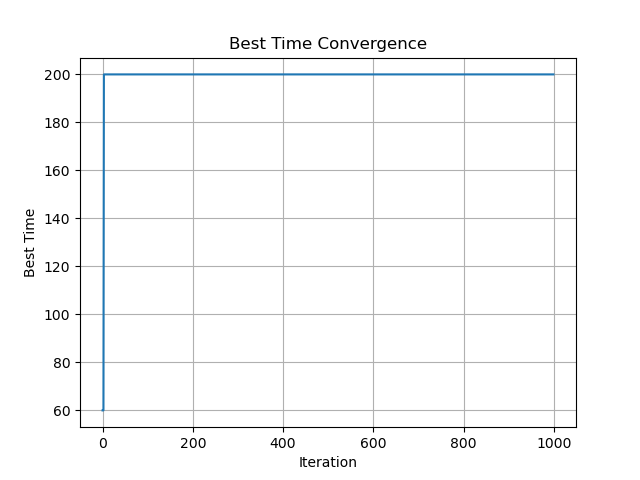
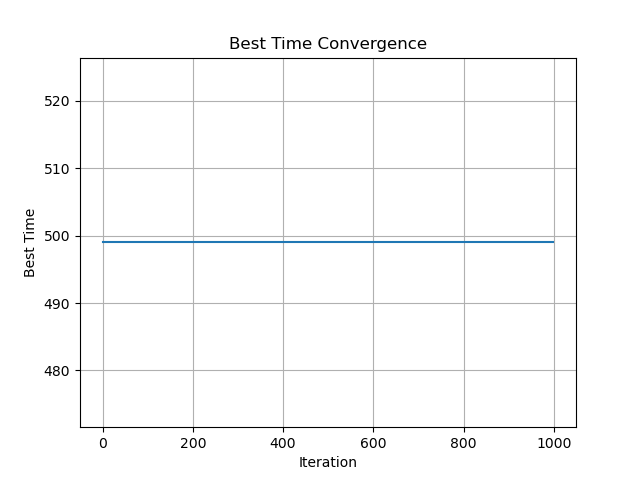
wip

diff --git a/main.py b/main.py
@@ -27,50 +27,50 @@ upper_bound = np.array([100, 10, 10.0])
 pso = ParticleSwarmOptimization(hyperparams, lower_bound, upper_bound)
 pso_theta = ParticleSwarmOptimization(hyperparams, lower_bound, upper_bound)
 def plot_results():
-    """
-    Plots the results of the optimization.
-    """
-    fig_format = 'png'
-    plt.figure()
-    plt.plot(position_x_history)
-    plt.legend(['Kp', 'Ki', 'Kd'])
-    plt.xlabel('Iteration')
-    plt.ylabel('Parameter Value')
-    plt.title('Parameters Convergence For Horizontal Control')
-    plt.grid()
-    plt.savefig('parameters_convergence_x.%s' % fig_format, format=fig_format)
+	"""
+	Plots the results of the optimization.
+	"""
+	fig_format = 'png'
+	plt.figure()
+	plt.plot(position_x_history)
+	plt.legend(['Kp', 'Ki', 'Kd'])
+	plt.xlabel('Iteration')
+	plt.ylabel('Parameter Value')
+	plt.title('Parameters Convergence For Horizontal Control')
+	plt.grid()
+	plt.savefig('parameters_convergence_x.%s' % fig_format, format=fig_format)
 
-    plt.figure()
-    plt.plot(position_theta_history)
-    plt.legend(['Kp', 'Ki', 'Kd'])
-    plt.xlabel('Iteration')
-    plt.ylabel('Parameter Value')
-    plt.title('Parameters Convergence for Theta Control')
-    plt.grid()
-    plt.savefig('parameters_convergence_theta.%s' % fig_format, format=fig_format)
-    
-    
-    plt.figure()
-    plt.plot(quality_history)
-    plt.xlabel('Iteration')
-    plt.ylabel('Simulation Time')
-    plt.title('Simulation Time Convergence')
-    plt.grid()
-    plt.savefig('line_quality_convergence.%s' % fig_format, format=fig_format)
-    best_history = []
-    best = -inf
-    for q in quality_history:
-        if q > best:
-            best = q
-        best_history.append(best)
-    plt.figure()
-    plt.plot(best_history)
-    plt.xlabel('Iteration')
-    plt.ylabel('Best Time')
-    plt.title('Best Time Convergence')
-    plt.grid() 
-    plt.savefig('line_best_convergence.%s' % fig_format, format=fig_format)
-    plt.show()
+	plt.figure()
+	plt.plot(position_theta_history)
+	plt.legend(['Kp', 'Ki', 'Kd'])
+	plt.xlabel('Iteration')
+	plt.ylabel('Parameter Value')
+	plt.title('Parameters Convergence for Theta Control')
+	plt.grid()
+	plt.savefig('parameters_convergence_theta.%s' % fig_format, format=fig_format)
+	
+	
+	plt.figure()
+	plt.plot(quality_history)
+	plt.xlabel('Iteration')
+	plt.ylabel('Simulation Time')
+	plt.title('Simulation Time Convergence')
+	plt.grid()
+	plt.savefig('line_quality_convergence.%s' % fig_format, format=fig_format)
+	best_history = []
+	best = -inf
+	for q in quality_history:
+		if q > best:
+			best = q
+		best_history.append(best)
+	plt.figure()
+	plt.plot(best_history)
+	plt.xlabel('Iteration')
+	plt.ylabel('Best Time')
+	plt.title('Best Time Convergence')
+	plt.grid() 
+	plt.savefig('line_best_convergence.%s' % fig_format, format=fig_format)
+	plt.show()
 
 def convert_particle_position_to_params(position):
 	"""
@@ -81,34 +81,31 @@ def convert_particle_position_to_params(position):
 	"""
 	params = Params()
 	params.kp = position[0]
-	params.ki = position[1]
-	params.kd = position[2]
+	params.kd = position[1]
+	# params.ki = position[1]
 	return params
 
 
 # Initiating the Mountain Car environment
-env = gym.make('CartPole-v0')
-state_size = env.observation_space.shape[0]
-action_size = env.action_space.n
-
+env = gym.make('CartPole-v1')
 # Initializing history
 position_x_history = []  # history of evaluated particle positions
 position_theta_history = []
 quality_history = []  # history of evaluated qualities
 
-control_theta = PIDController(0,0, 0, SAMPLE_TIME)
-control_posic = PIDController(0, 0, 0, SAMPLE_TIME)
+control_theta = PIDController(5,0, 100, 1)
+control_posic = PIDController(1, 0, 100, 1)
 
 
 for episodes in range(1, NUM_EPISODES + 1):
 	# Reset the environment
-	position = pso.get_position_to_evaluate()
-	controller_params = convert_particle_position_to_params(position)
-	control_posic.set_gains(controller_params.kp, controller_params.ki, controller_params.kd)
+	# position = pso.get_position_to_evaluate()
+	# controller_params = convert_particle_position_to_params(position)
+	# control_posic.set_gains(controller_params.kp, controller_params.ki, controller_params.kd)
 
-	position_theta = pso_theta.get_position_to_evaluate()
-	controller_params_theta = convert_particle_position_to_params(position_theta)
-	control_theta.set_gains(controller_params_theta.kp, controller_params_theta.ki, controller_params_theta.kd)
+	# position_theta = pso_theta.get_position_to_evaluate()
+	# controller_params_theta = convert_particle_position_to_params(position_theta)
+	# control_theta.set_gains(controller_params_theta.kp, controller_params_theta.ki, controller_params_theta.kd)
 
 
 	state = env.reset()
@@ -143,17 +140,42 @@ for episodes in range(1, NUM_EPISODES + 1):
 		best_theta = pso_theta.get_best_position()
 		position_x_history.append(np.array(best_posic))
 		position_theta_history.append(np.array(best_theta))
-		# print("posic kp: {} ki: {} kd: {} ".format(best_posic.kp,best_posic.kd, best_posic.ki))
-		# print("theta kp: {} ki: {} kd: {} ".format(best_theta.kp, best_theta.kd, best_theta.ki))
-	# Every 10 episodes, update the plot for training monitoring
-	# if episodes % 50 == 0:
-		# plt.plot(return_history, 'b')
-		# plt.xlabel('Episode')
-		# plt.ylabel('Return')
-		# plt.show(block=False)
-		# plt.pause(0.1)
-		# plt.savefig('dqn_training.' + fig_format, format=fig_format)
-		# Saving the model to disk
-		# agent.save("cart_pole.h5")
-plot_results()
+  
+	position = pso.get_position_to_evaluate()
+	controller_params = convert_particle_position_to_params(position)
+	control_posic.set_gains(controller_params.kp, controller_params.ki, controller_params.kd)
+
+	position_theta = pso_theta.get_position_to_evaluate()
+	controller_params_theta = convert_particle_position_to_params(position_theta)
+	control_theta.set_gains(controller_params_theta.kp, controller_params_theta.ki, controller_params_theta.kd)
+# plot_results()
 plt.pause(1.0)
+
+#visualize 
+# class PD:
+#     def __init__(self, kp, kd, goal):
+#         self.kp = kp
+#         self.kd = kd
+#         self.goal = goal
+#         self.last_error = 0
+
+#     def observe(self, x):
+#         error = self.goal - x
+#         d_error = error - self.last_error
+#         self.last_error = error
+#         return self.kp * error + self.kd * d_error
+# controller = PD(kp=5, kd=100, goal=0)
+
+env = gym.make("CartPole-v1")
+observation = env.reset()
+
+for _ in range(1000):
+	# control_output = controller.observe(pole_angle)
+	env.render()
+	action = PIDController.decide_action(observation,control_posic,control_theta)
+	
+	observation, reward, terminated, truncated = env.step(action)
+	if terminated or truncated:
+		observation = env.reset()
+
+env.close()

diff --git a/pid_controller.py b/pid_controller.py
@@ -8,12 +8,7 @@ class PIDController:
 		self.ki = ki
 		self.kd = kd
 		self.sample_time = sample_time
-		self.b2 = (ki*sample_time**2 + kd +kp*sample_time**2)/sample_time
-		self.b1 = (-2*kd-2*kp*sample_time)/sample_time
-		self.b0 = -kd/sample_time
-		self.u1 = 0.0
 		self.e1 = 0.0
-		self.e2 = 0.0
 		self.integral = 0.0
 		
 	def control(self, error):
@@ -24,7 +19,8 @@ class PIDController:
 		# Atualizando o erro anterior
 		self.e1 = error
 		# Calculando a saída do PID
-		u = self.kp * error + self.ki * self.integral + self.kd * derivative
+		# u = self.kp * error + self.ki * self.integral + self.kd * derivative
+		u = self.kp * error + self.kd * derivative
 		return u
 	
 	def set_gains(self,kp,ki,kd):
@@ -37,5 +33,5 @@ class PIDController:
 		error_posic = POSITION_REF - state[0]
 		error_theta = THETA_REF - state[2]
 		
-		action = 1 if(control_theta.control(error_theta) + control_posic.control(error_posic) < 0) else 0
+		action = 1 if control_theta.control(error_theta) + control_posic.control(error_posic) < 0  else 0
 		return action

diff --git a/constants.py b/constants.py
@@ -1,4 +1,4 @@
 THETA_REF = 0
 POSITION_REF = 0
-SAMPLE_TIME = 1/1000
+SAMPLE_TIME = 1
 NUM_EPISODES = 1000
